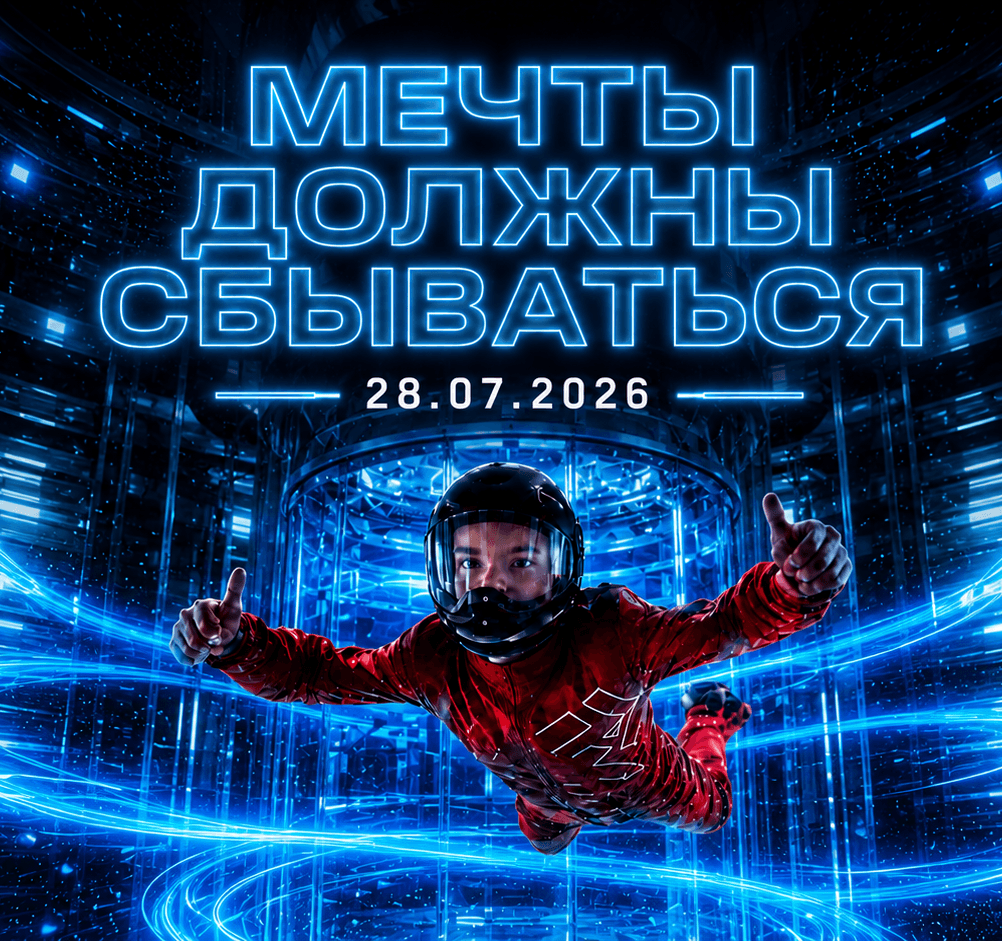
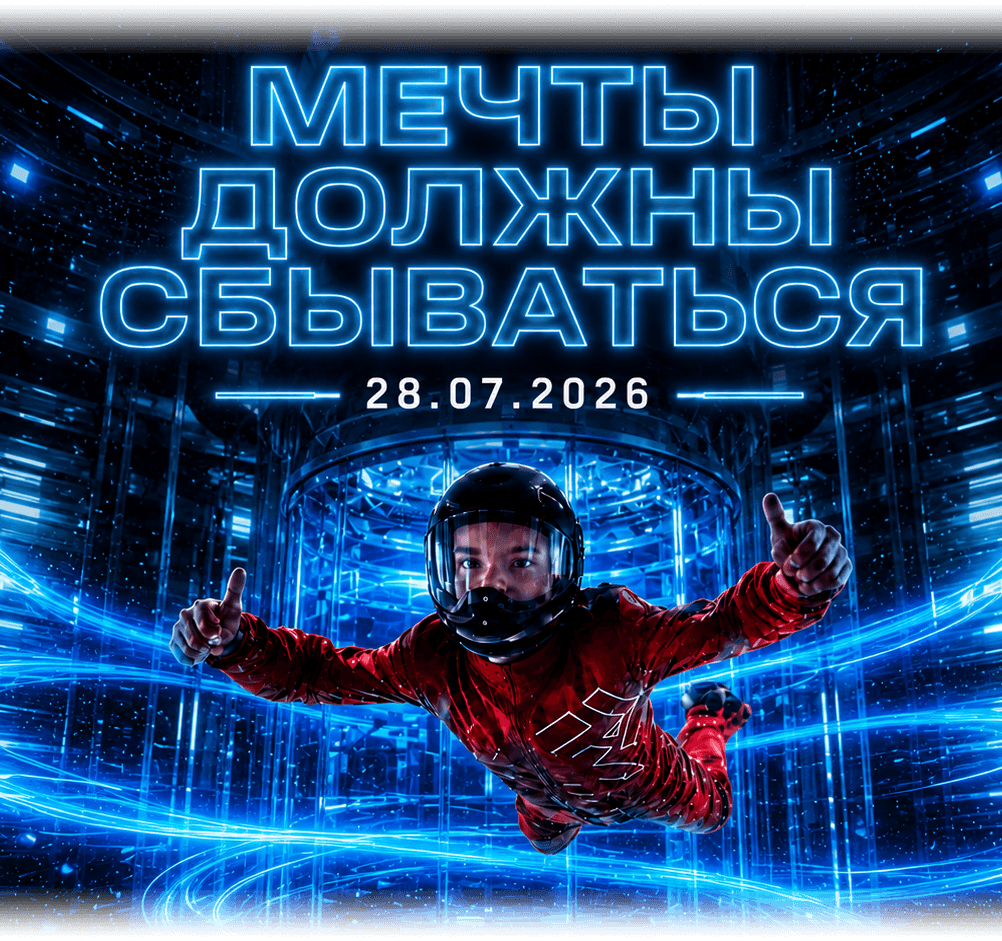
hb index

diff --git a/f/index.html b/f/index.html
@@ -1,0 +1,46 @@
+<!DOCTYPE html>
+<html lang="ru">
+<head>
+  <meta charset="UTF-8" />
+  <meta name="viewport" content="width=device-width, initial-scale=1, maximum-scale=1, viewport-fit=cover" />
+  <title>Мечты должны сбываться | 28.07.2026</title>
+  <style>
+    *, *::before, *::after {
+      box-sizing: border-box;
+      margin: 0;
+      padding: 0;
+    }
+
+    html, body {
+      width: 100%;
+      height: 100%;
+      overflow: hidden;
+      touch-action: none;
+    }
+
+    body {
+      display: flex;
+      align-items: center;
+      justify-content: center;
+      min-height: 100dvh;
+      height: 100dvh;
+      background: url("bg.jpg") center / cover no-repeat;
+    }
+
+    img {
+      display: block;
+      max-width: 100%;
+      max-height: 100%;
+      width: auto;
+      height: auto;
+      object-fit: contain;
+      user-select: none;
+      -webkit-user-drag: none;
+      pointer-events: none;
+    }
+  </style>
+</head>
+<body>
+  <img src="hb.png" alt="HB" />
+</body>
+</html>
